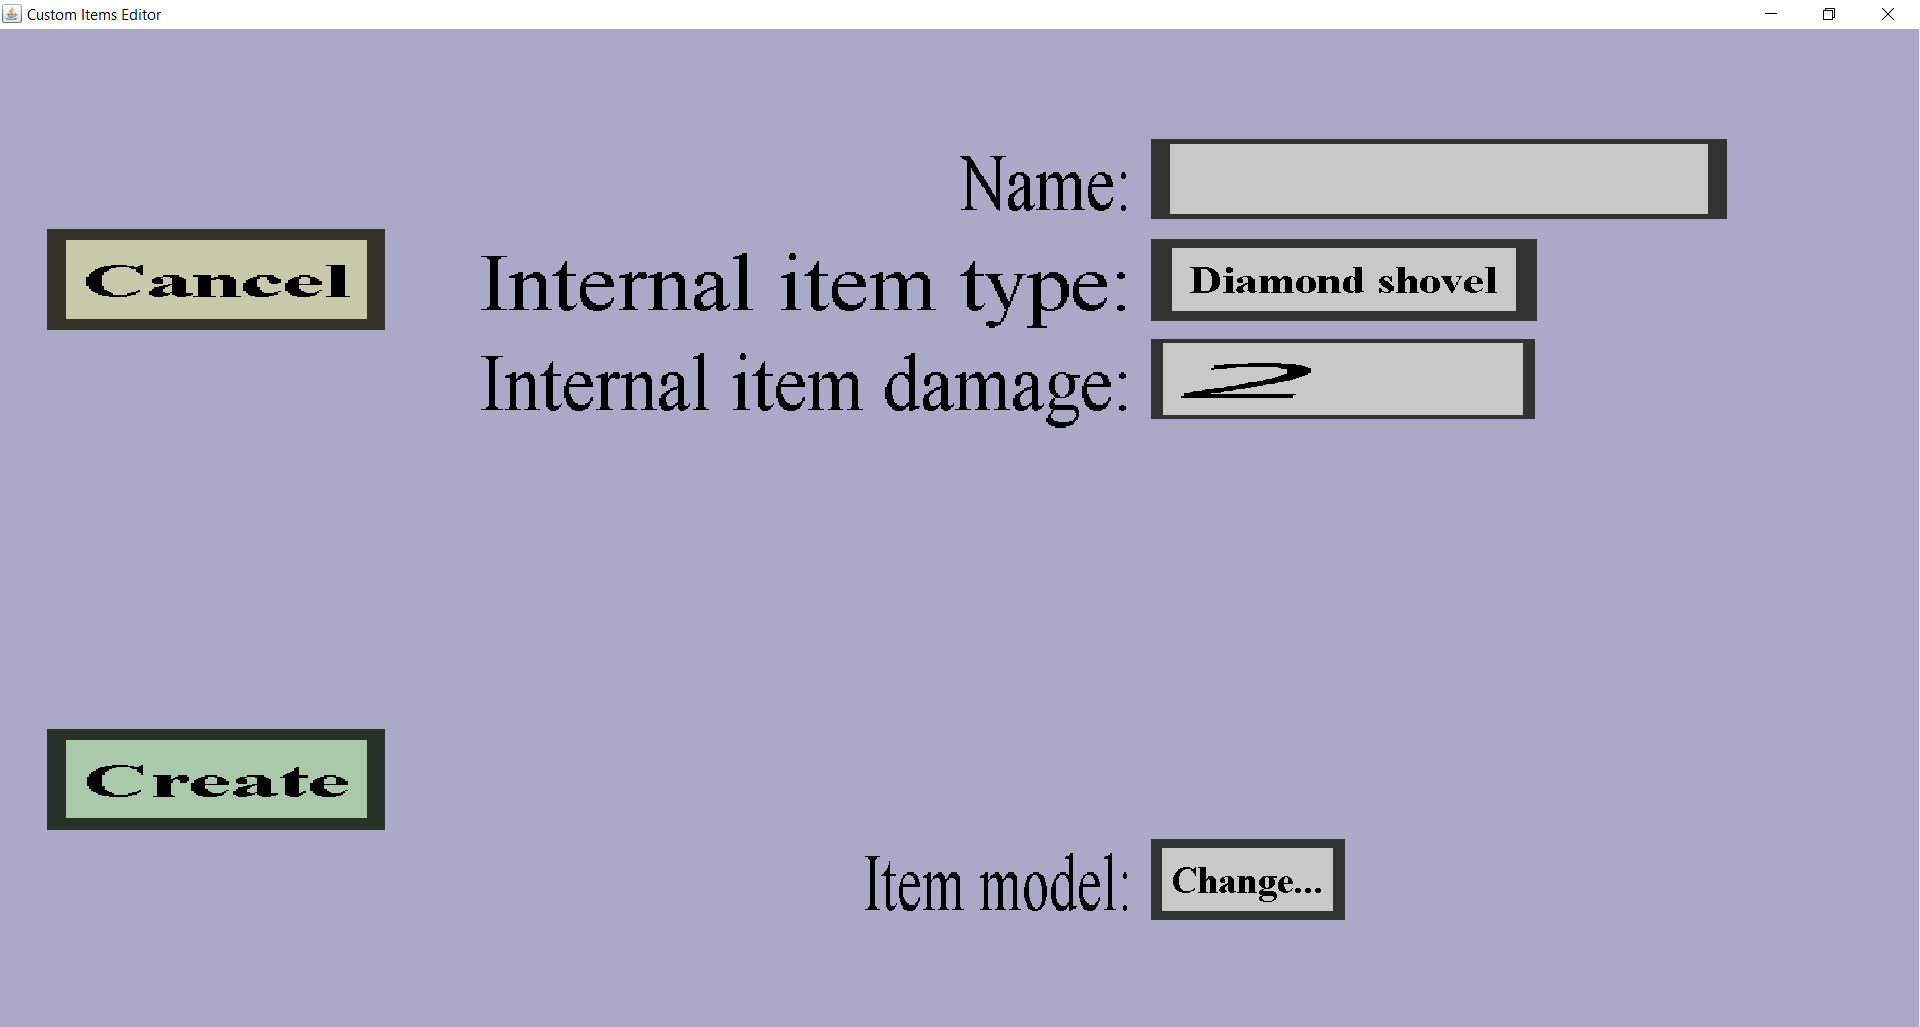
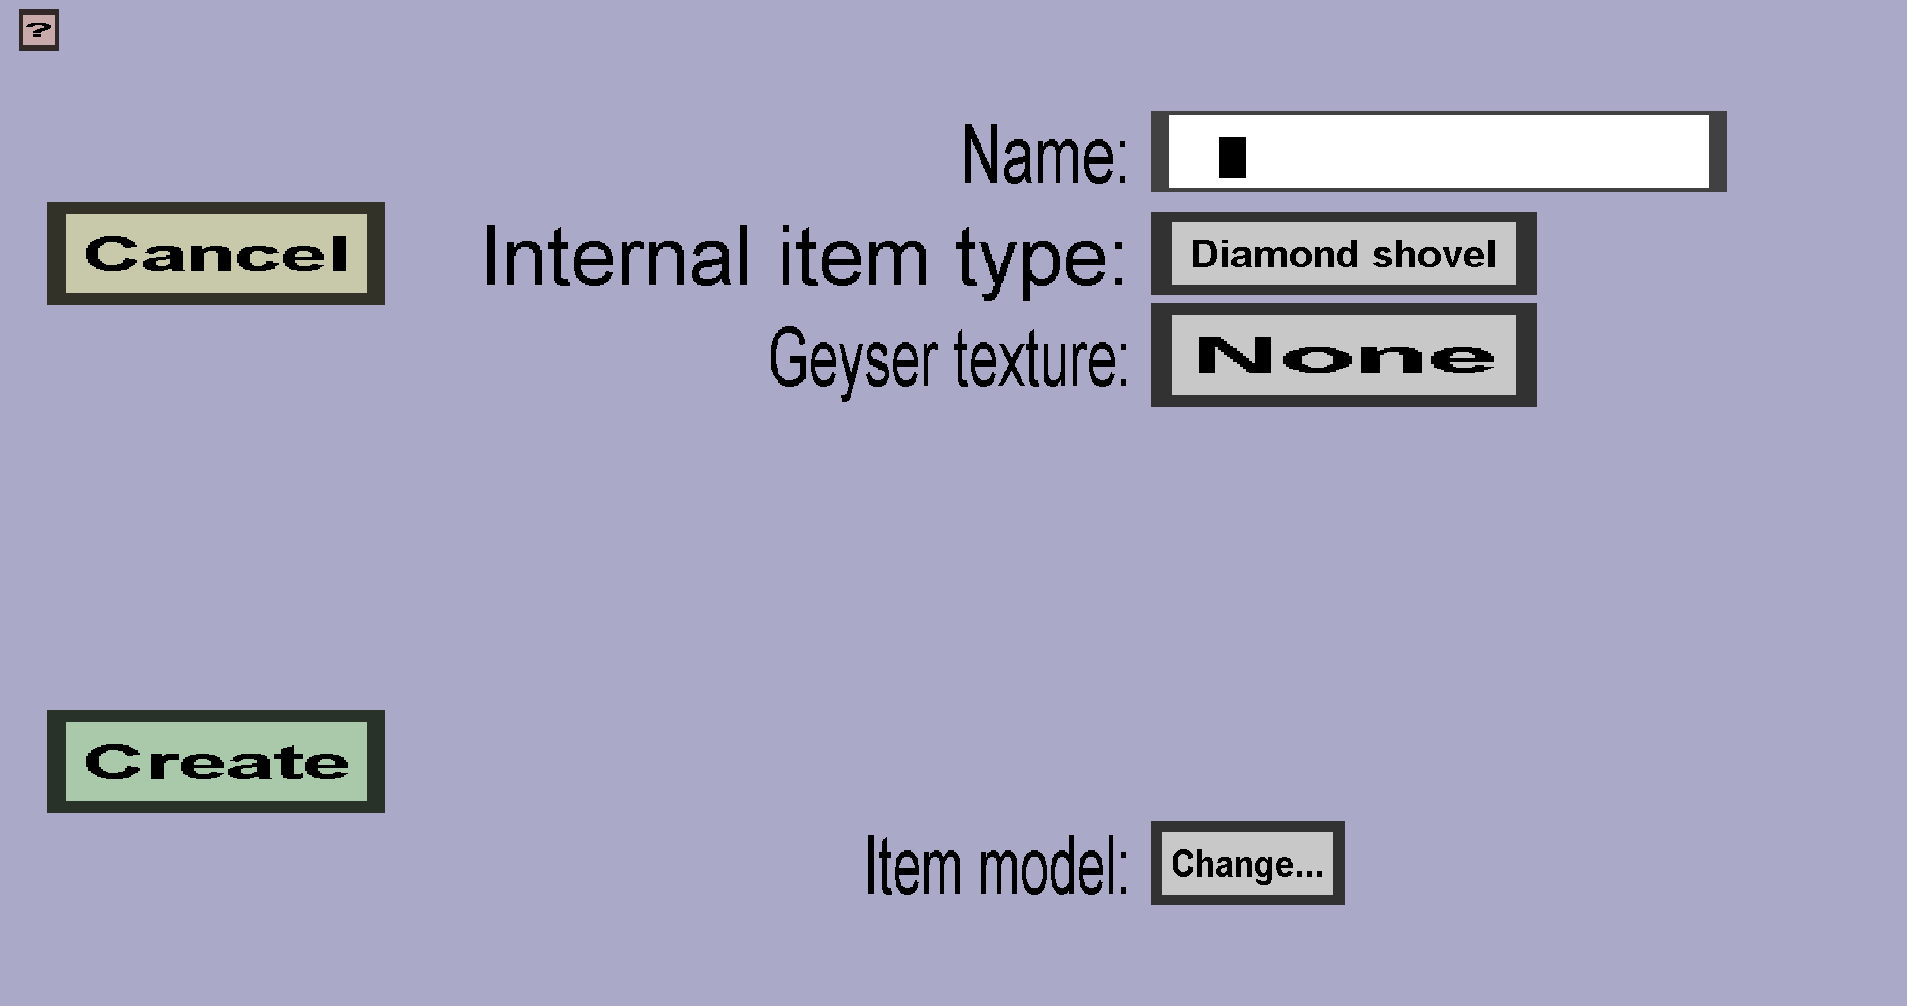
Document the Geyser texture of projectile covers in KCI 13

diff --git a/custom items/editor documentation/edit menu/projectiles/covers/edit/custom.html b/custom items/editor documentation/edit menu/projectiles/covers/edit/custom.html
@@ -33,6 +33,12 @@
             custom items and projectile covers that can have the same internal item 
             type.
         </p>
+        <h3>Geyser texture</h3>
+        <p>
+            When you export with a Geyser/Bedrock resourcepack, this texture will be given to the projectile cover.
+            Unfortunately, Geyser doesn't support dropped item models, so it's much more limited than the projectile
+            covers shown to Java edition players.
+        </p>
         <h3>Item model</h3>
         <p>
             The item model is the minecraft item model that will be given to the dropped item that will follow the 

diff --git a/custom items/editor documentation/edit menu/projectiles/covers/edit/sphere.html b/custom items/editor documentation/edit menu/projectiles/covers/edit/sphere.html
@@ -33,6 +33,12 @@
             custom items and projectile covers that can have the same internal item 
             type.
         </p>
+        <h3>Geyser texture</h3>
+        <p>
+            When you export with a Geyser/Bedrock resourcepack, this texture will be given to the projectile cover.
+            Unfortunately, Geyser doesn't support dropped item models, so it's much more limited than the projectile
+            covers shown to Java edition players.
+        </p>
         <h3>Scale and Slots per axis</h3>
         <p>
             Sphere projectile covers will have an item model that looks like a sphere. 
